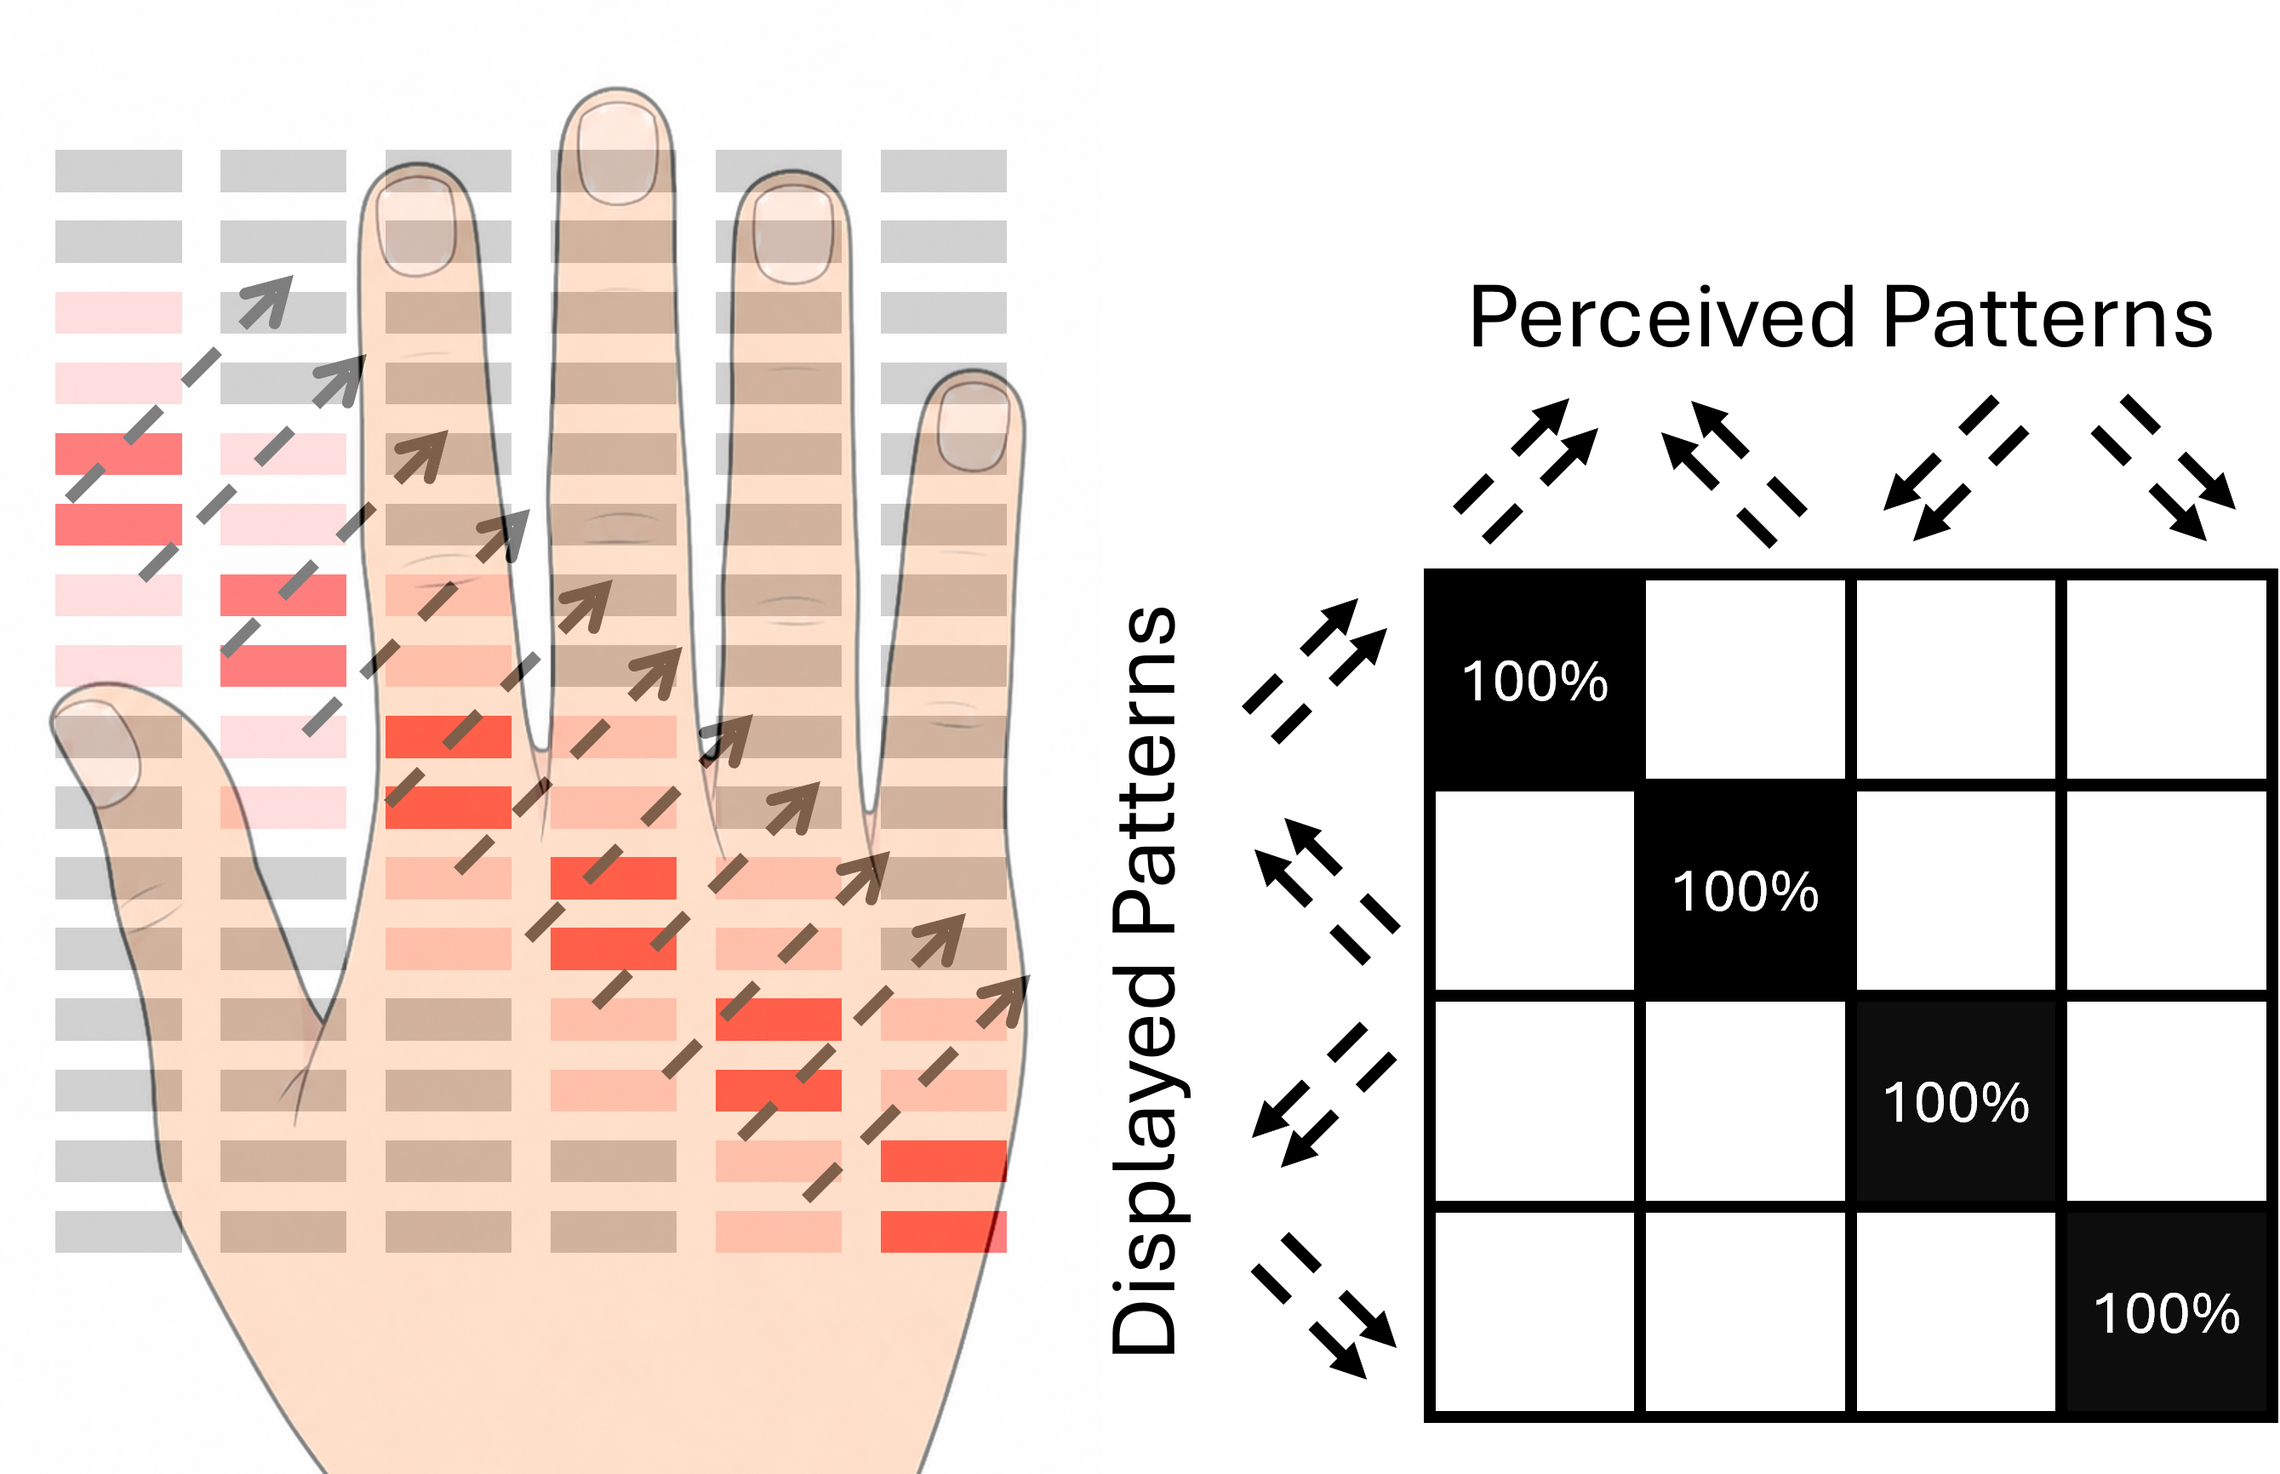
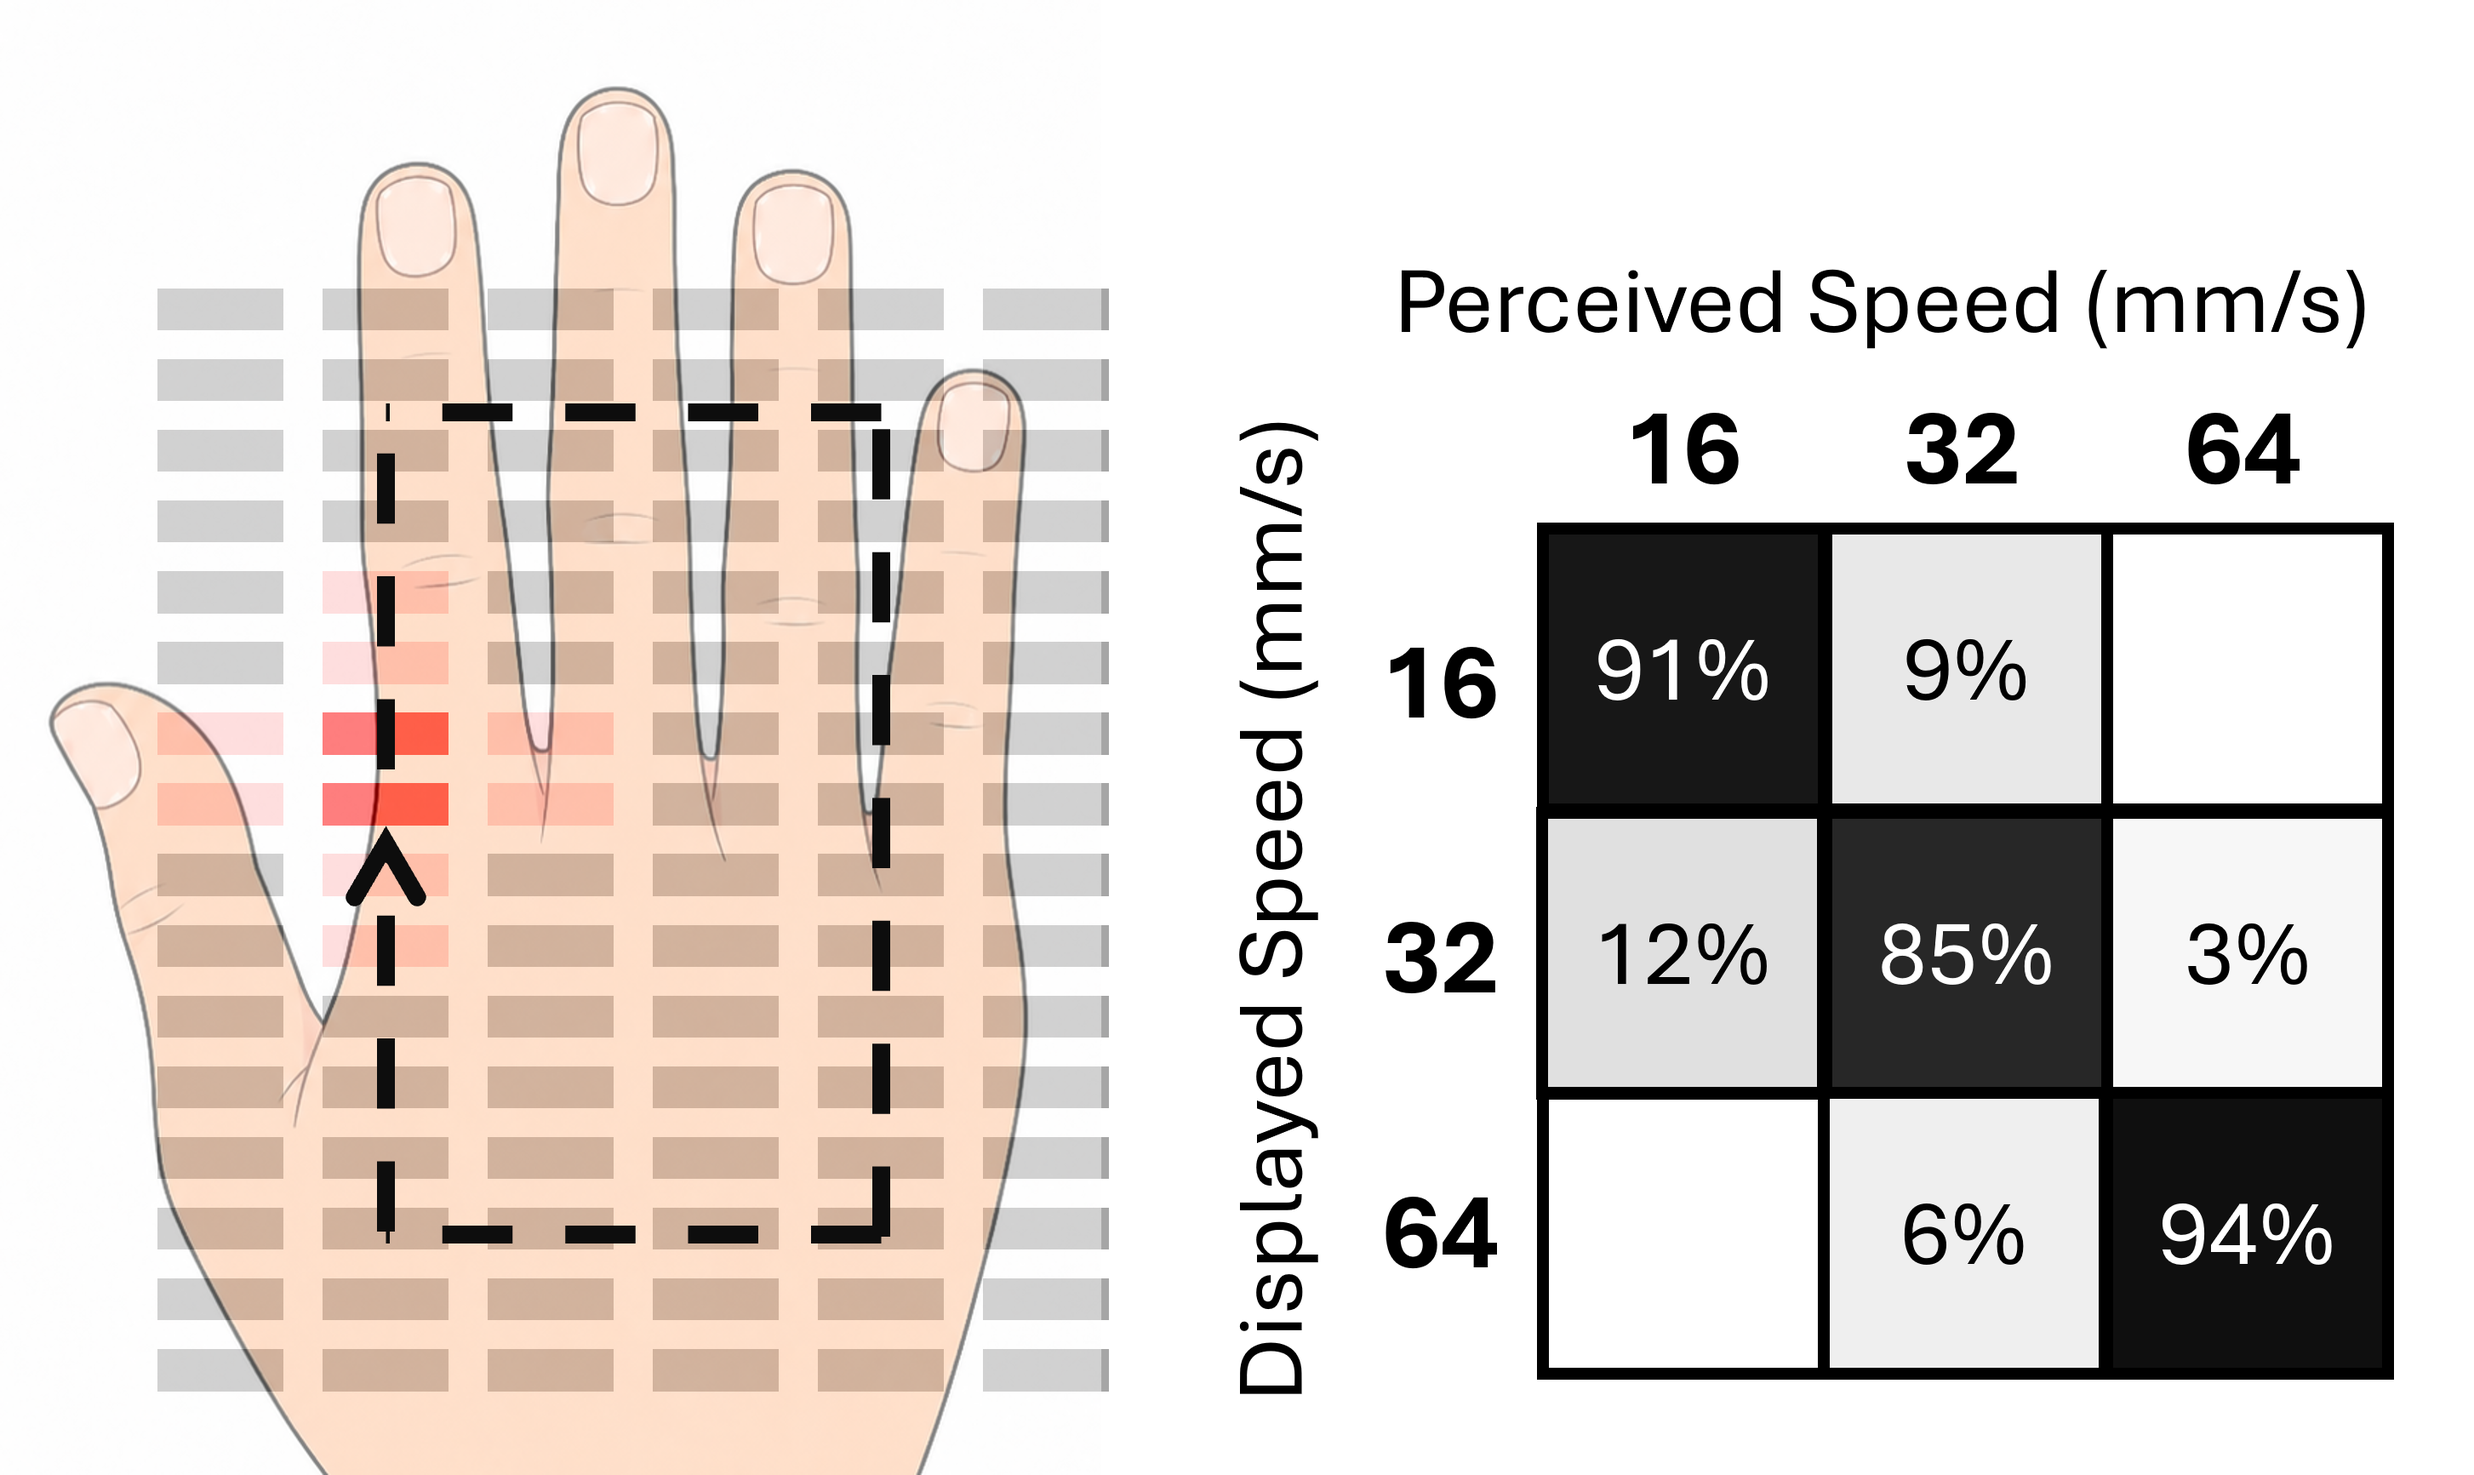
First website draft

diff --git a/index.html b/index.html
@@ -139,14 +139,14 @@
 
 
 <!-- Teaser -->
-<section class="hero teaser">
+<section class="hero teaser is-light">
   <div class="container is-max-desktop">
     <div class="hero-body">
-      <h2 class="title is-3 has-text-centered">Too-Long-Didn't-Read Abstract</h2>
+      <h2 class="title is-3 has-text-centered">Project Summary</h2>
       <!-- TODO: Replace with your video description -->
       <h2 class="subtitle">
-        <strong>Motivation</strong>: Existing haptic displays usually has small pixels but bulky on-skin driver circuits, barring them
-        from wearability and scalability.
+        <strong>Motivation</strong>: Existing haptic displays usually has small pixels but bulky on-skin driver circuits, making
+        wearability and scalability hard.
       </h2>
       <h2 class="subtitle">
         <strong>Contribution</strong>: Proposed a new design where the on-skin driver system is compact, revealing a path towards
@@ -167,24 +167,34 @@
 <!-- End teaser -->
 
 <!-- Methodology -->
-<section class="hero is-small is-light">
+<section class="hero is-small">
   <div class="hero-body">
     <div class="container">
       <div class="columns is-centered has-text-centered">
         <div class="column is-four-fifths">
           
           <h2 class="title is-3">Shared Source Frequency Modulation</h2>
-          <div class="content has-text-justified">
-            <!-- TODO: Replace with your paper abstract -->
-            <p>
-              Interesting
-            </p>
+          <div class="item">
+            <!-- Your image here -->
+            <img src="static/images/SSFM1.png" alt="Second research result visualization" loading="lazy"/>
+            <h2 class="subtitle has-text-justified">
+              Overview of the SSFM structure, illustrated with an example in which the base frequency is 200 Hz, the peak drive voltage is 50 V, and the refresh interval is 50 ms. <br/>
+    <strong>Upper Left</strong>: Schematic of a single pixel, powered by the shared base signal and gated by an analog switch. The switch changes state only while base voltage is lower than 1V. <br/>
+    <strong>Upper Right</strong>: Temporal relation among the base waveform, the analog switch action, and the converted waveform. To produce a nominal frequency of 200/n Hz, the switch is opened for n-1 base periods and then closed again for one period. <br/>
+    <strong>Lower Left</strong>: Spectra of the converted waveform for selected pixel intensities n=1,2,4,10,20,50. As n increases and the nominal frequency decreases, the dominant component remains at 200/n, while a substantial high-frequency portion is retained. This retained content may help keep low-nominal-frequency vibrations perceptible. <br/>
+    <strong>Lower Right</strong>: Example of how dynamic haptic patterns are generated by SSFM, where darker shading denotes a higher nominal frequency. <br/>
+            </h2>
           </div>
           <div class="item">
             <!-- Your image here -->
-            <img src="static/images/wr.jpg" alt="Second research result visualization" loading="lazy"/>
-            <h2 class="subtitle has-text-centered">
-              Second image description.
+            <img src="static/images/SSFM2.png" alt="Second research result visualization" loading="lazy"/>
+            <h2 class="subtitle has-text-justified">
+              Implementation of the proof-of-concept prototype. <br/>
+    <strong>Upper left</strong>: Top view of the assembled display. <br/>
+    <strong>Upper middle</strong>: Close-up of the display surface, showing the distribution of the PowerHap 1204 piezoelectric actuators. <br/>
+    <strong>Upper right</strong>: Snapshot of a human-participant experiment. <br/>
+    <strong>Lower left</strong>: Exploded view of the prototype. The piezoelectric actuators are mounted on photo-cured resin holders, with aluminum support frames beneath to limit deflection of the holders under hand pressure. <br/>
+    <strong>Lower right</strong>: Schematic of the electrical connections. The ESP32 microcontroller sets the state of each analog switch channel over a high-speed SPI link, while the host PC streams haptic display frames to the ESP32 over a serial connection. <br/>
             </h2>
           </div>
         </div>
@@ -195,47 +205,62 @@
 <!-- End Methodology -->
 
 <!-- Experiment Results -->
-<section class="hero is-small">
+<section class="hero is-small is-light">
   <div class="hero-body">
     <div class="container">
       <div class="columns is-centered has-text-centered">
         <div class="column is-four-fifths">
           <h2 class="title is-3">Experiment Results</h2>
           <div class="content has-text-justified">
-            <img src="static/images/Exp1.png" alt="First research result visualization" loading="lazy"/>
-            <h2 class="subtitle has-text-centered">
-              First image description.
+            <h2 class="subtitle is-4">
+              Volunteer tests conducted with 11 participants, 8 male and 3 female.
             </h2>
           </div>
-          <div class="content has-text-justified">
-            <img src="static/images/Exp2.png" alt="Second research result visualization" loading="lazy"/>
-            <h2 class="subtitle has-text-centered">
-              Second image description.
-            </h2>
+          
+          <!-- Row 1 -->
+          <div class="columns">
+            <div class="column is-half">
+              <img src="static/images/Exp1.png" alt="First research result visualization" loading="lazy"/>
+              <h2 class="subtitle is-6 has-text-centered">
+                Experiment 1: identification of vibration position along the index finger. Each block corresponds to one stimulated pixel, outlined in blue, and its entries give the distribution of reported positions.
+              </h2>
+            </div>
+            <div class="column is-half">
+              <img src="static/images/Exp2.png" alt="Second research result visualization" loading="lazy"/>
+              <h2 class="subtitle is-6 has-text-centered">
+                Experiment 2: discrimination of vibration intensity. Participants reported which of two successive vibrations had the higher nominal frequency.
+              </h2>
+            </div>
           </div>
-          <div class="content has-text-justified">
-            <img src="static/images/Exp3.png" alt="Third research result visualization" loading="lazy"/>
-            <h2 class="subtitle has-text-centered">
-              Third image description.
-            </h2>
+          <!-- Row 2 -->
+          <div class="columns">
+            <div class="column is-half">
+              <img src="static/images/Exp3.png" alt="Third research result visualization" loading="lazy"/>
+              <h2 class="subtitle is-6 has-text-centered">
+                Experiment 3: multi-finger vibration perception. Participants reported which two fingers were stimulated, denoted index (I), middle (M), ring (R), and little (P).
+              </h2>
+            </div>
+            <div class="column is-half">
+              <img src="static/images/Exp4.png" alt="Fourth research result visualization" loading="lazy"/>
+              <h2 class="subtitle is-6 has-text-centered">
+                Experiment 4: perception of linear motion patterns among the up, down, left, and right directions.
+              </h2>
+            </div>
           </div>
-          <div class="content has-text-justified">
-            <img src="static/images/Exp4.png" alt="Fourth research result visualization" loading="lazy"/>
-            <h2 class="subtitle has-text-centered">
-              Fourth image description.
-            </h2>
-          </div>
-          <div class="content has-text-justified">
-            <img src="static/images/Exp5.png" alt="Fifth research result visualization" loading="lazy"/>
-            <h2 class="subtitle has-text-centered">
-              Fifth image description.
-            </h2>
-          </div>
-          <div class="content has-text-justified">
-            <img src="static/images/Exp6.png" alt="Sixth research result visualization" loading="lazy"/>
-            <h2 class="subtitle has-text-centered">
-              Dixth image description.
-            </h2>
+          <!-- Row 3 -->
+          <div class="columns">
+            <div class="column is-half">
+              <img src="static/images/Exp5.png" alt="Fifth research result visualization" loading="lazy"/>
+              <h2 class="subtitle is-6 has-text-centered">
+                Experiment 5: perception of rotational motion speed among 16, 32, and 64 mm/s
+              </h2>
+            </div>
+            <div class="column is-half">
+              <img src="static/images/Exp6.png" alt="Sixth research result visualization" loading="lazy"/>
+              <h2 class="subtitle is-6 has-text-centered">
+                Experiment 6: perception of linear motion patterns among the four diagonal directions.
+              </h2>
+            </div>
           </div>
         </div>
       </div>
@@ -244,24 +269,23 @@
 </section>
 <!-- End Experiment Results -->
 
-<!-- Experiment Results -->
-<section class="hero is-small is-light">
+<!-- Methodology -->
+<section class="hero is-small">
   <div class="hero-body">
     <div class="container">
       <div class="columns is-centered has-text-centered">
-        <div class="column is-four-fifths">
-          <h2 class="title is-3">Future Work</h2>
-          <div class="content has-text-justified">
-            <!-- TODO: Replace with your paper abstract -->
-            <p>
-              Interesting
-            </p>
-          </div>
+        <div class="column is-half">
+          <h2 class="title is-3 has-text-centered">Future Work</h2>
+          <!-- TODO: Replace with your video description -->
+          <h2 class="subtitle has-text-justified">
+            Based on the theoretical foundation of this work, our immediate next step is building a haptic glove with
+            large pixel sizes.
+          </h2>
           <div class="item">
             <!-- Your image here -->
             <img src="static/images/wr.jpg" alt="Second research result visualization" loading="lazy"/>
             <h2 class="subtitle has-text-centered">
-              Second image description.
+              A rendering of the wearable haptic device on one finger.
             </h2>
           </div>
         </div>
@@ -269,7 +293,7 @@
     </div>
   </div>
 </section>
-<!-- End Experiment Results -->
+<!-- End Methodology -->
 
 <!--BibTex citation -->
   <section class="section" id="BibTeX">
